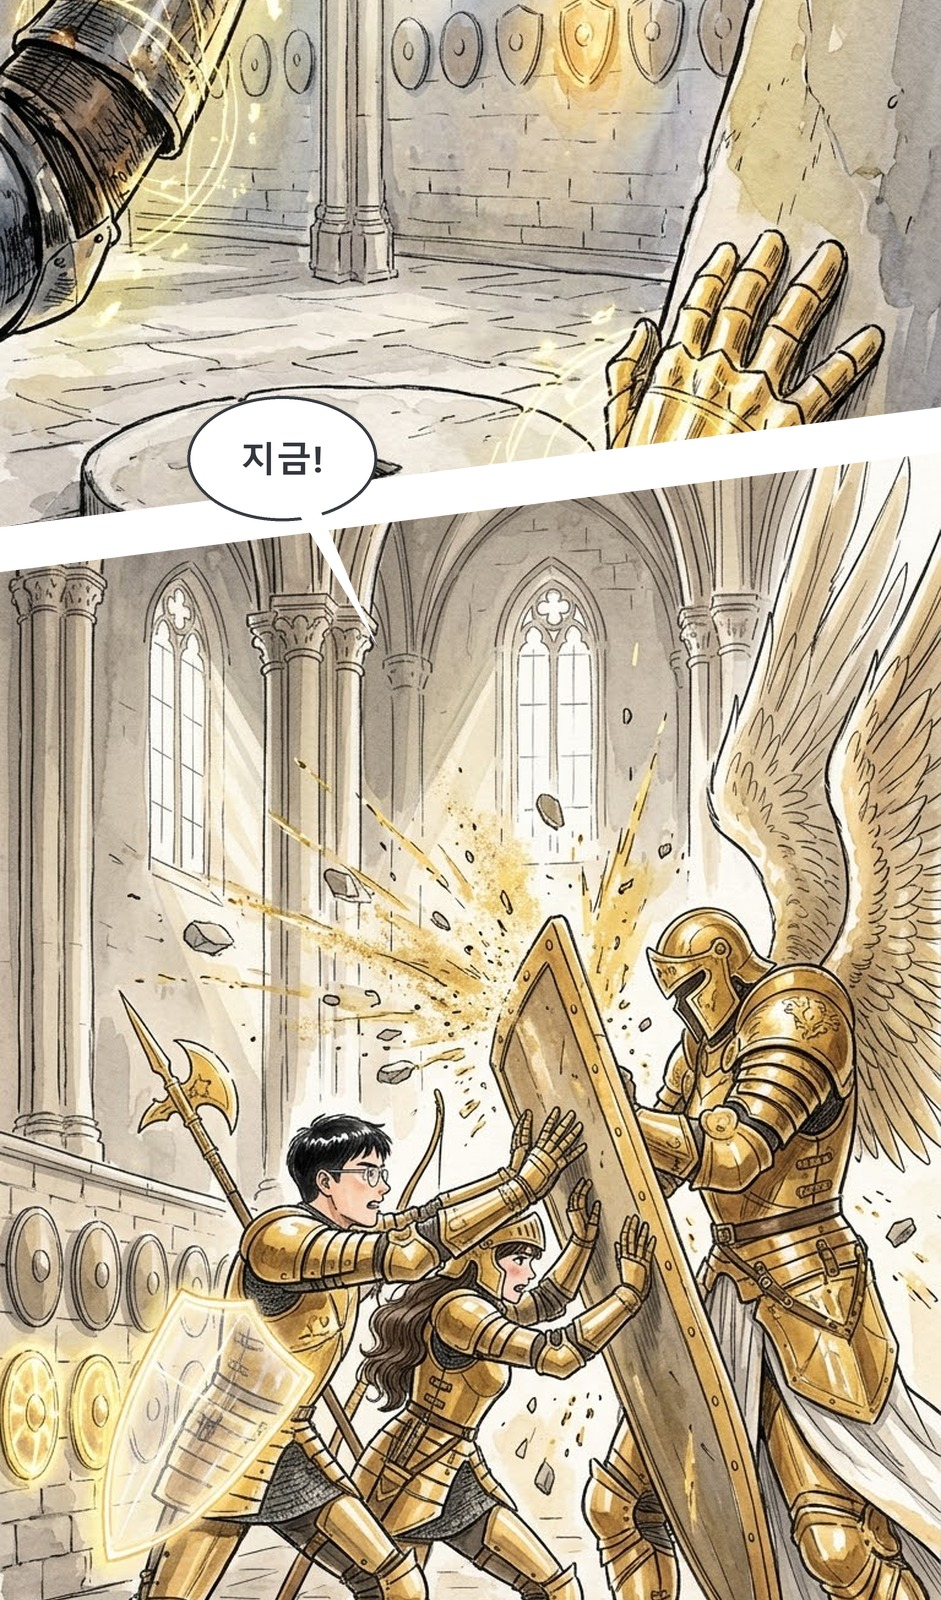
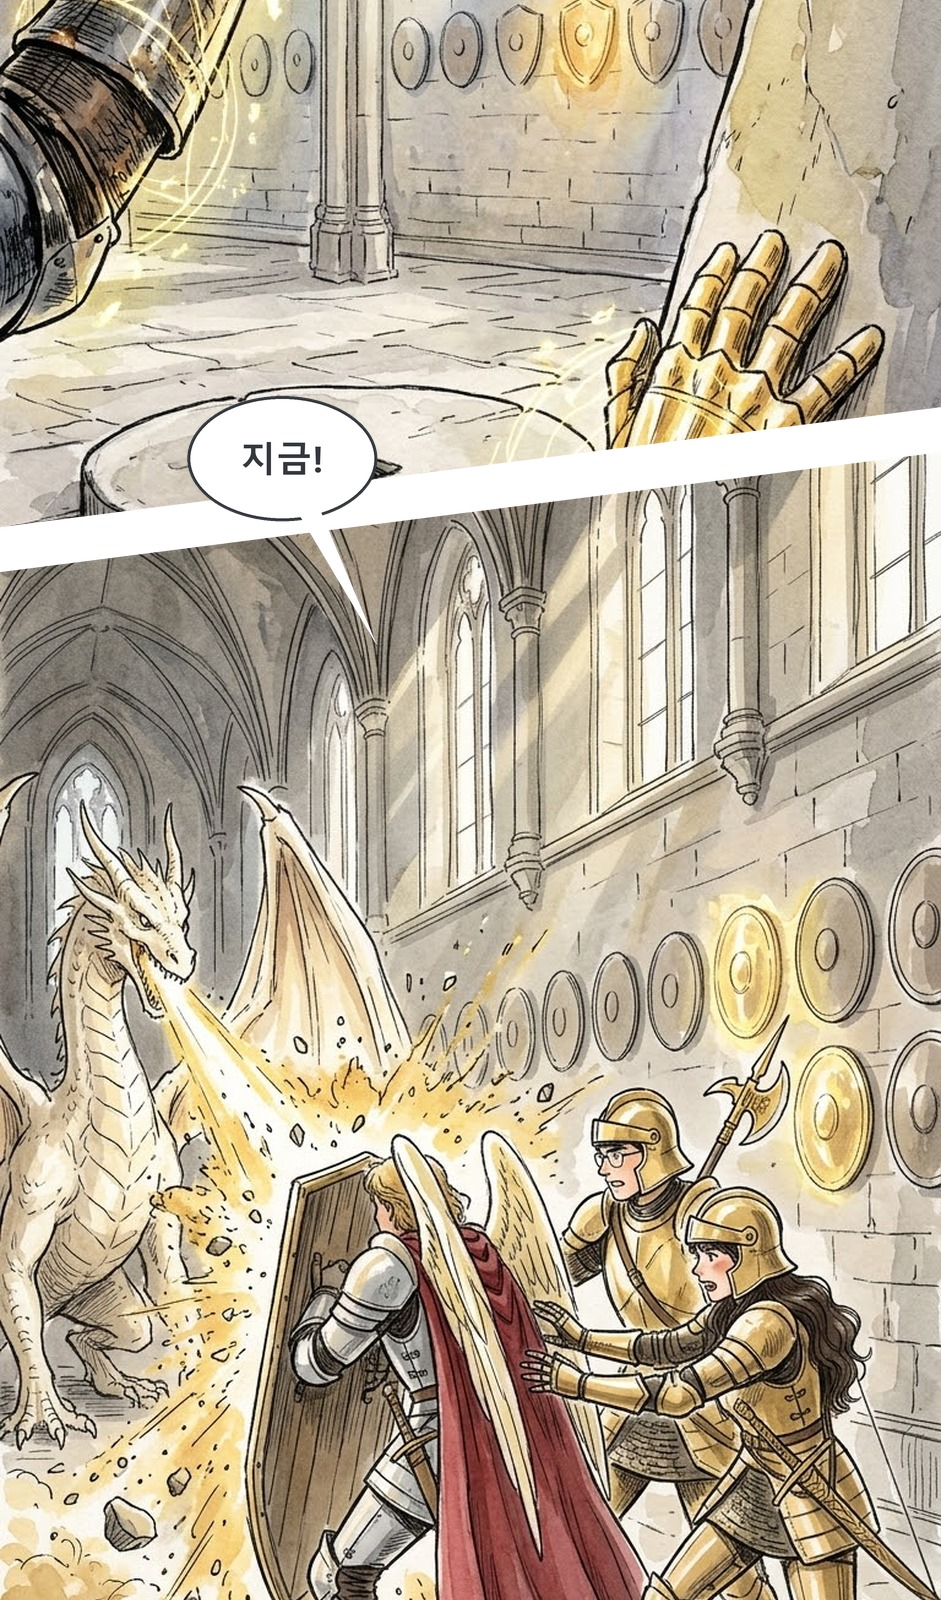
fix: 13화 54컷 — 천사장이 앞에서 막고 남매가 뒤에서 받치는 구도

diff --git a/index.html b/index.html
@@ -51,7 +51,7 @@ footer{text-align:center;color:var(--muted);font-size:12px;padding:24px 16px 40p
 <nav id="nav"></nav>
 <main id="main"></main>
 <footer>여호수아 시즌1은 기존 Joshua-story 사이트에서 열립니다.</footer>
-<script src="data.js?v=202610170030"></script>
+<script src="data.js?v=202610171012"></script>
 <script>
 const esc = s => String(s).replace(/[&<>"]/g, c => ({'&':'&amp;','<':'&lt;','>':'&gt;','"':'&quot;'}[c]));
 const nav = document.getElementById('nav'), main = document.getElementById('main');
